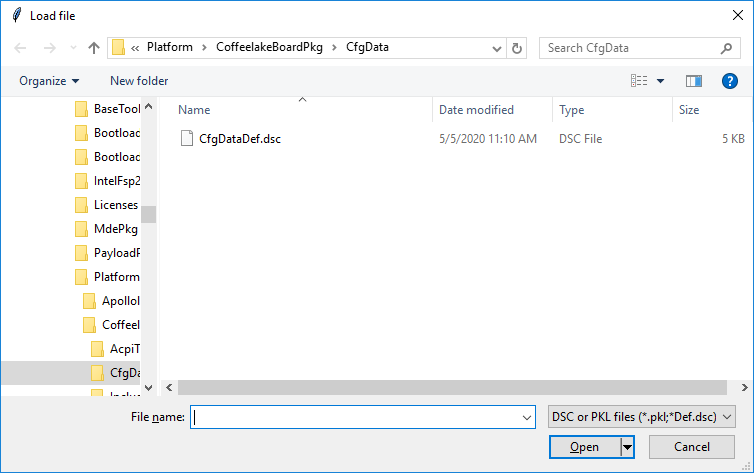
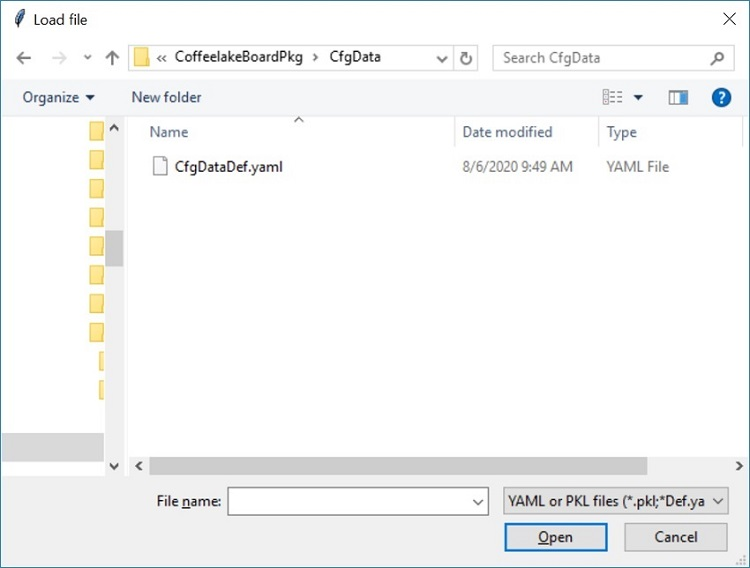
Updated .rst files information from dsc to yaml.
Also Images which mentioned about dsc also updated to yaml.

diff --git a/source/tools/index.rst b/source/tools/index.rst
@@ -229,7 +229,7 @@ Following operations are supported::
 Gpio Tool
 ---------
 
-``GenGpioData.py`` is a utility that converts the GPIO pin data from one format to other. The formats currently supported are [h, csv, txt, dsc, dlt]. ``h, csv, txt`` formats are external to |SPN| and ``dsc, dlt`` formats are known to |SPN|. So, this tool provides a way to convert one of the ``h, csv, txt`` to ``dsc, dlt`` and vice-versa.
+``GenGpioData.py`` is a utility that converts the GPIO pin data from one format to other. The formats currently supported are [h, csv, txt, dsc, yaml, dlt]. ``h, csv, txt`` formats are external to |SPN| and ``dsc, yaml, dlt`` formats are known to |SPN|. So, this tool provides a way to convert one of the ``h, csv, txt`` to ``dsc, yaml, dlt`` and vice-versa.
 
 Each of the above mentioned formats is as follows:
 
@@ -380,17 +380,19 @@ Each of the above mentioned formats is as follows:
 
     GPP_A07:0x0001A880:0x01FCF77F:0x01FE5FFF:0x40100102:0x0000301F
 
-* dsc, dlt::
+* dsc, yaml, dlt::
 
-    Please take a look at your project's dsc and dlt files for this format.
+    Please take a look at your project's dsc, yaml and dlt files for this format.
 
  - example::
 
-        dsc :   # !BSF SUBT:{GPIO_TMPL:GPP_A07: 0x031885E1: 0x00070619}
+        dsc  :   # !BSF SUBT:{GPIO_TMPL:GPP_A07: 0x031885E1: 0x00070619}
 
-        dlt :   GPIO_CFG_DATA.GpioPinConfig0_GPP_A07 | 0x031885E1
+        yaml :   - !expand { CFGHDR_TMPL : [ PSD_CFG_DATA, 0x800, 0, 0 ] }
 
-                GPIO_CFG_DATA.GpioPinConfig1_GPP_A07 | 0x00070619
+        dlt  :   GPIO_CFG_DATA.GpioPinConfig0_GPP_A07 | 0x031885E1
+
+                 GPIO_CFG_DATA.GpioPinConfig1_GPP_A07 | 0x00070619
 
 .. _stitch-tool:
 
@@ -458,7 +460,7 @@ IFWI image is used as input to program SPI flash on the hardware, while |SPN| BI
 |CFGTOOL|
 --------------------
 
-``ConfigEditor.py`` is a GUI program provided in |SPN| to allow user to customize board specific settings. You will need this tool in porting or customizing a new board. It provides features to load a platform configuration file (``*.dsc``) and generate board configuration delta file (``*.dlt``). This tool can be used in pre-build or post-build process.
+``ConfigEditor.py`` is a GUI program provided in |SPN| to allow user to customize board specific settings. You will need this tool in porting or customizing a new board. It provides features to load a platform configuration file (``*.yaml``) and generate board configuration delta file (``*.dlt``). This tool can be used in pre-build or post-build process.
 
 This tool depends on Python GUI tool kit **Tkinter**. It runs on both Windows and Linux.
 

diff --git a/source/how-tos/configure_gpio.rst b/source/how-tos/configure_gpio.rst
@@ -32,9 +32,9 @@ ConfigEditor is run using ConfigEditor.py script::
 
 .. image:: /images/Gpio_config_1.jpg
 
-**Step2.** Open the "Config DSC" file, then select the description file
+**Step2.** Open the "Config YAML" file, then select the description file
 according to your platform( eg.
-/Platform/CoffeelakeBoardPkg/CfgData/CfgDataDef.dsc")
+/Platform/CoffeelakeBoardPkg/CfgData/CfgDataDef.yaml")
 
 .. image:: /images/Gpio_config_2.jpg
 
@@ -81,7 +81,7 @@ GenGpioData Tool
 
 GenGpioData.py is a utility that converts the GPIO pin data from one format to other. 
 When starting a new project, often times the GPIO information for that platform is 
-available in a format that needs to be converted to dsc/dlt to be used in SBL. 
+available in a format that needs to be converted to yaml/dlt to be used in SBL. 
 For example, the GPIO information for a platform may have to be retrieved from the 
 chipset data sheet or from the CRB BIOS..
 
@@ -97,19 +97,19 @@ GenGpioData Tool is run using GenGpioData.py script::
     option 1     : GPIO input data file
     option 2     : Output SBL format
     option 3     : output path 
- Example: Python GenGpioData.py -if GpioTableXxx.h -of dsc -o .
+ Example: Python GenGpioData.py -if GpioTableXxx.h -of yaml -o .
  
-Input is .h and output is .dsc::
+Input is .h and output is .yaml::
 
-	python GenGpioData.py -if GpioTableXxx.h -of dsc -o . 
+	python GenGpioData.py -if GpioTableXxx.h -of yaml -o . 
 
 Input is .h and output is .dlt::
 
 	python GenGpioData.py -if GpioTableXxx.h -of dlt -o .
 
-Input is .csv and output is .dsc::
+Input is .csv and output is .yaml::
 
-	python GenGpioData.py -if GpioTablexx.csv -of dsc -o .
+	python GenGpioData.py -if GpioTablexx.csv -of yaml -o .
 
 Input is .csv and output is .dlt::
 
@@ -121,11 +121,11 @@ description regarding GPIO tool supported formats .
 GpioTablexxx.h file shall be imported from BIOS source. Depending upon
 requirement this table can be updated.
 
-Example :Input format is .h and output generated is .dsc file
+Example :Input format is .h and output generated is .yaml file
 
-Using Config editor the generated Dsc file can be loaded and modified
+Using Config editor the generated Yaml file can be loaded and modified
 
-Generated Dsc file looks like
+Generated Yaml file looks like
 
 .. image:: /images/Gpio_config_9.jpg
 

diff --git a/source/how-tos/configure-memory-down.rst b/source/how-tos/configure-memory-down.rst
@@ -11,12 +11,12 @@ Step 1 - Read schematic and understand DDR memory layout and model from datashee
 
 Step 2 - Configure the following memory parameters in |SPN|
 
-Start with ``<platform>\CfgData\CfgData_Memory.dsc`` to understand the possible values for memory parameters
+Start with ``<platform>\CfgData\CfgData_Memory.yaml`` to understand the possible values for memory parameters
 
 For |UP2|, open ``CfgData_Ext_Up2.dlt`` and customize values that match the actual memory parameters. Given an example for 8GB LPDDR4 memory::
 
   ...
-  
+
   PLATFORMID_CFG_DATA.PlatformId           | 0x000E <-- Match actual Board ID
 
   MEMORY_CFG_DATA.DualRankSupportEnable    | 0x1
@@ -39,7 +39,7 @@ Optionally, you can use |CFGTOOL| to graphically view and modify configurations.
 
 Step 3 - Build, stitch and test
 
-If the memory configuration is correct, |SPN| should boot all the way to the shell. Verify the memory map information from the log to ensure the memory size matches with hardware. 
+If the memory configuration is correct, |SPN| should boot all the way to the shell. Verify the memory map information from the log to ensure the memory size matches with hardware.
 
 Otherwise, |SPN| may hang after calling FSP-M and never returns. In this case, you have two troubleshooting options:
 

diff --git a/source/developer-guides/build-system.rst b/source/developer-guides/build-system.rst
@@ -26,7 +26,7 @@ Prebuild process determines the build time configuration by generating multiple 
 File                         Description
 ==================           ================
 Platform.dsc                 Finalized platform configuration based on ``BoardConfig.py``
-ConfigDataStruct.h           C header file for configuration data structure based on ``*.dsc`` file
+ConfigDataStruct.h           C header file for configuration data structure based on ``*.yaml`` file
 ConfigDataBlob.h             C file for *Internal* configuration data with default values
 ==================           ================
 

diff --git a/source/developer-guides/logging.rst b/source/developer-guides/logging.rst
@@ -4,7 +4,7 @@ Logging
 ---------
 
 |SPN| provides logging for debugging purpose. It can be configured at build time
-for verbosity. One can control debug messages in multiple ways by modifying the following PCDs defined in ``BootloaderCorePkg.dsc`` file:
+for verbosity. One can control debug messages in multiple ways by modifying the following PCDs defined in ``BootloaderCorePkg.yaml`` file:
 
 +------------------------------+------------------------------------------------------------------+
 | PCD Name                     | Description                                                      |

diff --git a/source/security/firmware-update.rst b/source/security/firmware-update.rst
@@ -441,7 +441,7 @@ Capsule Location
 
 The location of the firmware update capsule image is passed to Firmware update payload through CAPSULE_INFO_CFG_DATA configuration data.
 
-As an example, please refer to CAPSULE_INFO_CFG_DATA configuration data from ``Platform\ApollolakeBoardPkg\CfgData\CfgData_CapsuleInformation.dsc``.
+As an example, please refer to CAPSULE_INFO_CFG_DATA configuration data from ``Platform\ApollolakeBoardPkg\CfgData\CfgData_CapsuleInformation.yaml``.
 
 .. note:: Capsule update defined by UEFI specification is different from |SPN| capsule format.
 

diff --git a/source/how-tos/change-boot-option.rst b/source/how-tos/change-boot-option.rst
@@ -34,9 +34,9 @@ Please follow the below steps to make the changes before buiding SBL.
 
 .. image:: /images/Boot_options_1.jpg
 
-**Step2.** Open the "Config DSC" file, then select the description file
+**Step2.** Open the "Config YAML" file, then select the description file
 according to your platform( eg.
-/Platform/CoffeelakeBoardPkg/CfgData/CfgDataDef.dsc")
+/Platform/CoffeelakeBoardPkg/CfgData/CfgDataDef.yaml")
 
 .. image:: /images/Boot_options_2.jpg
 
